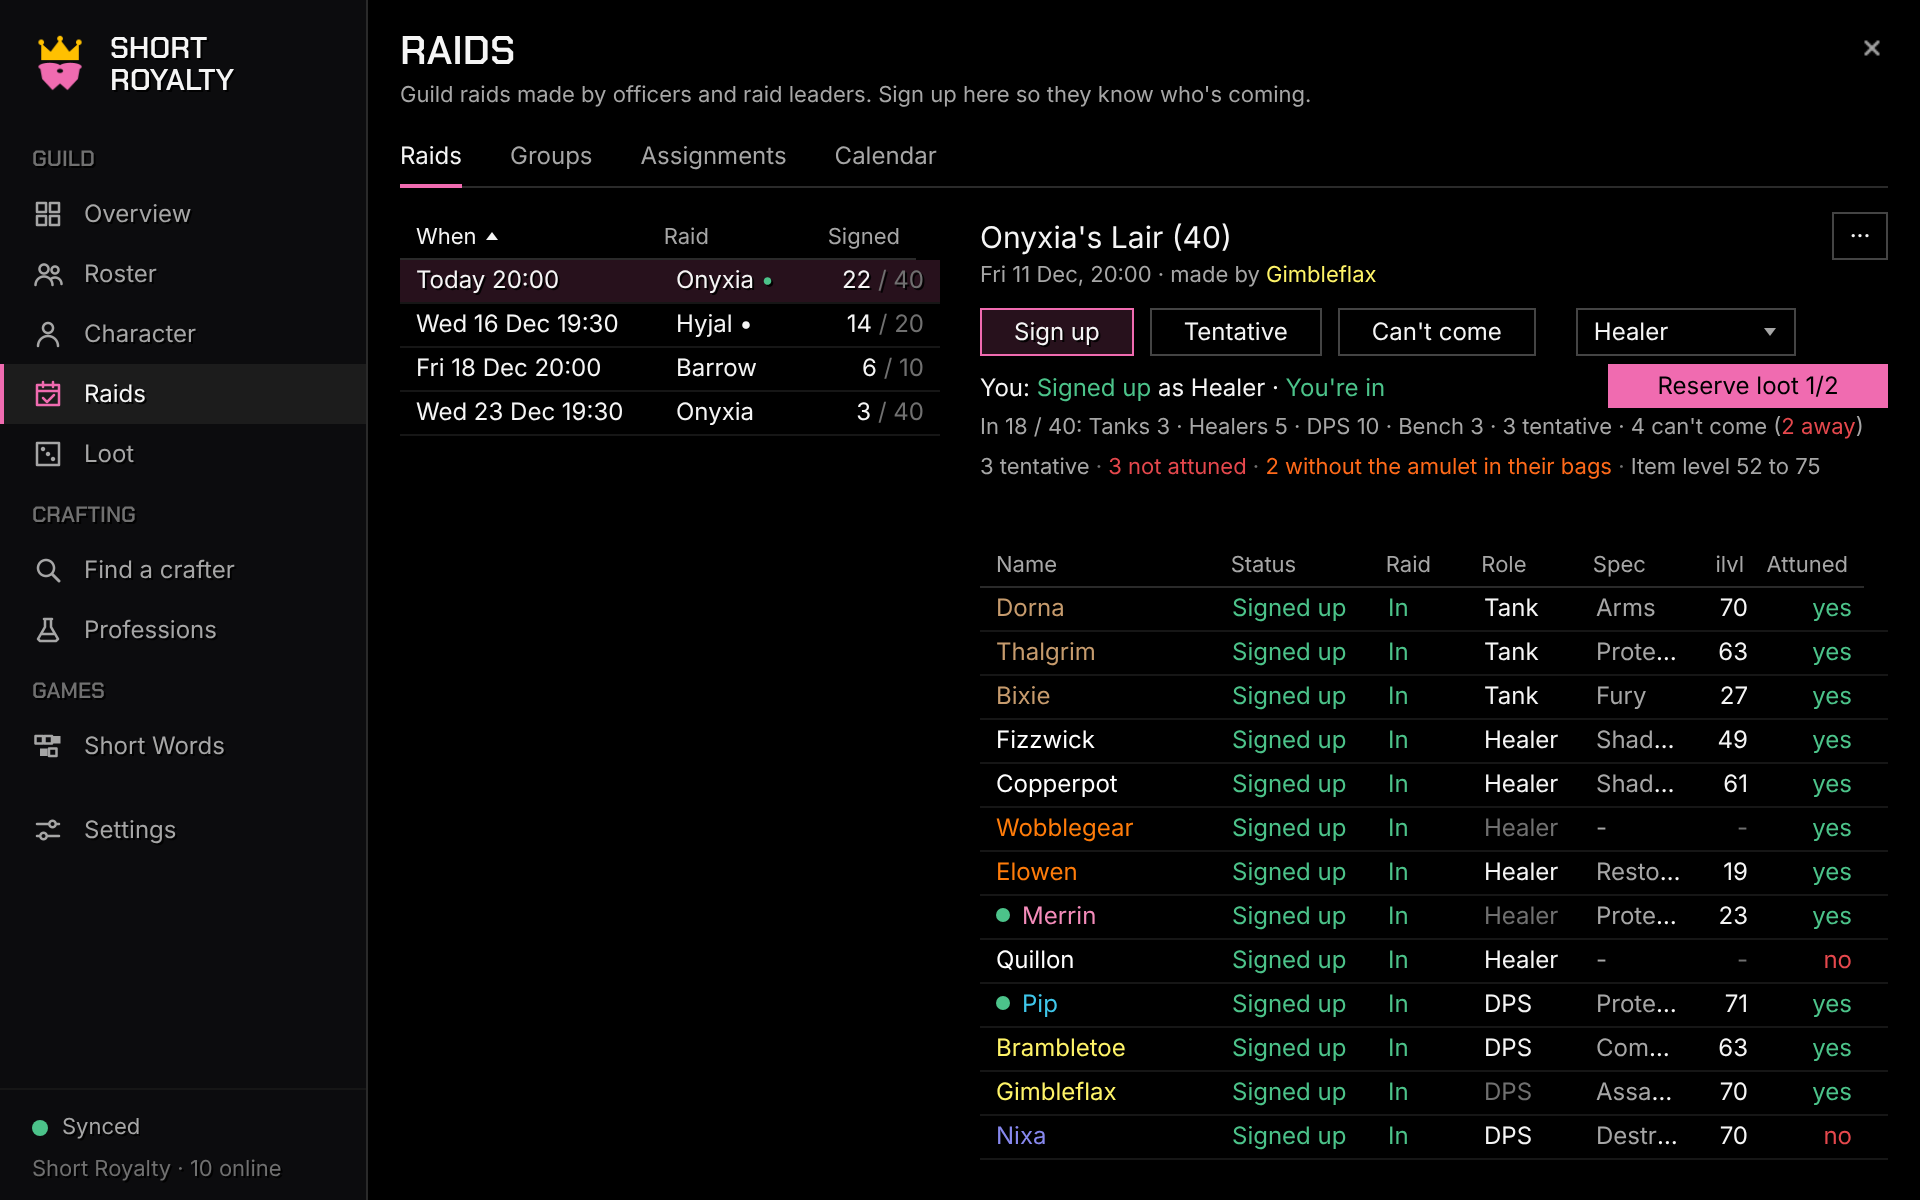
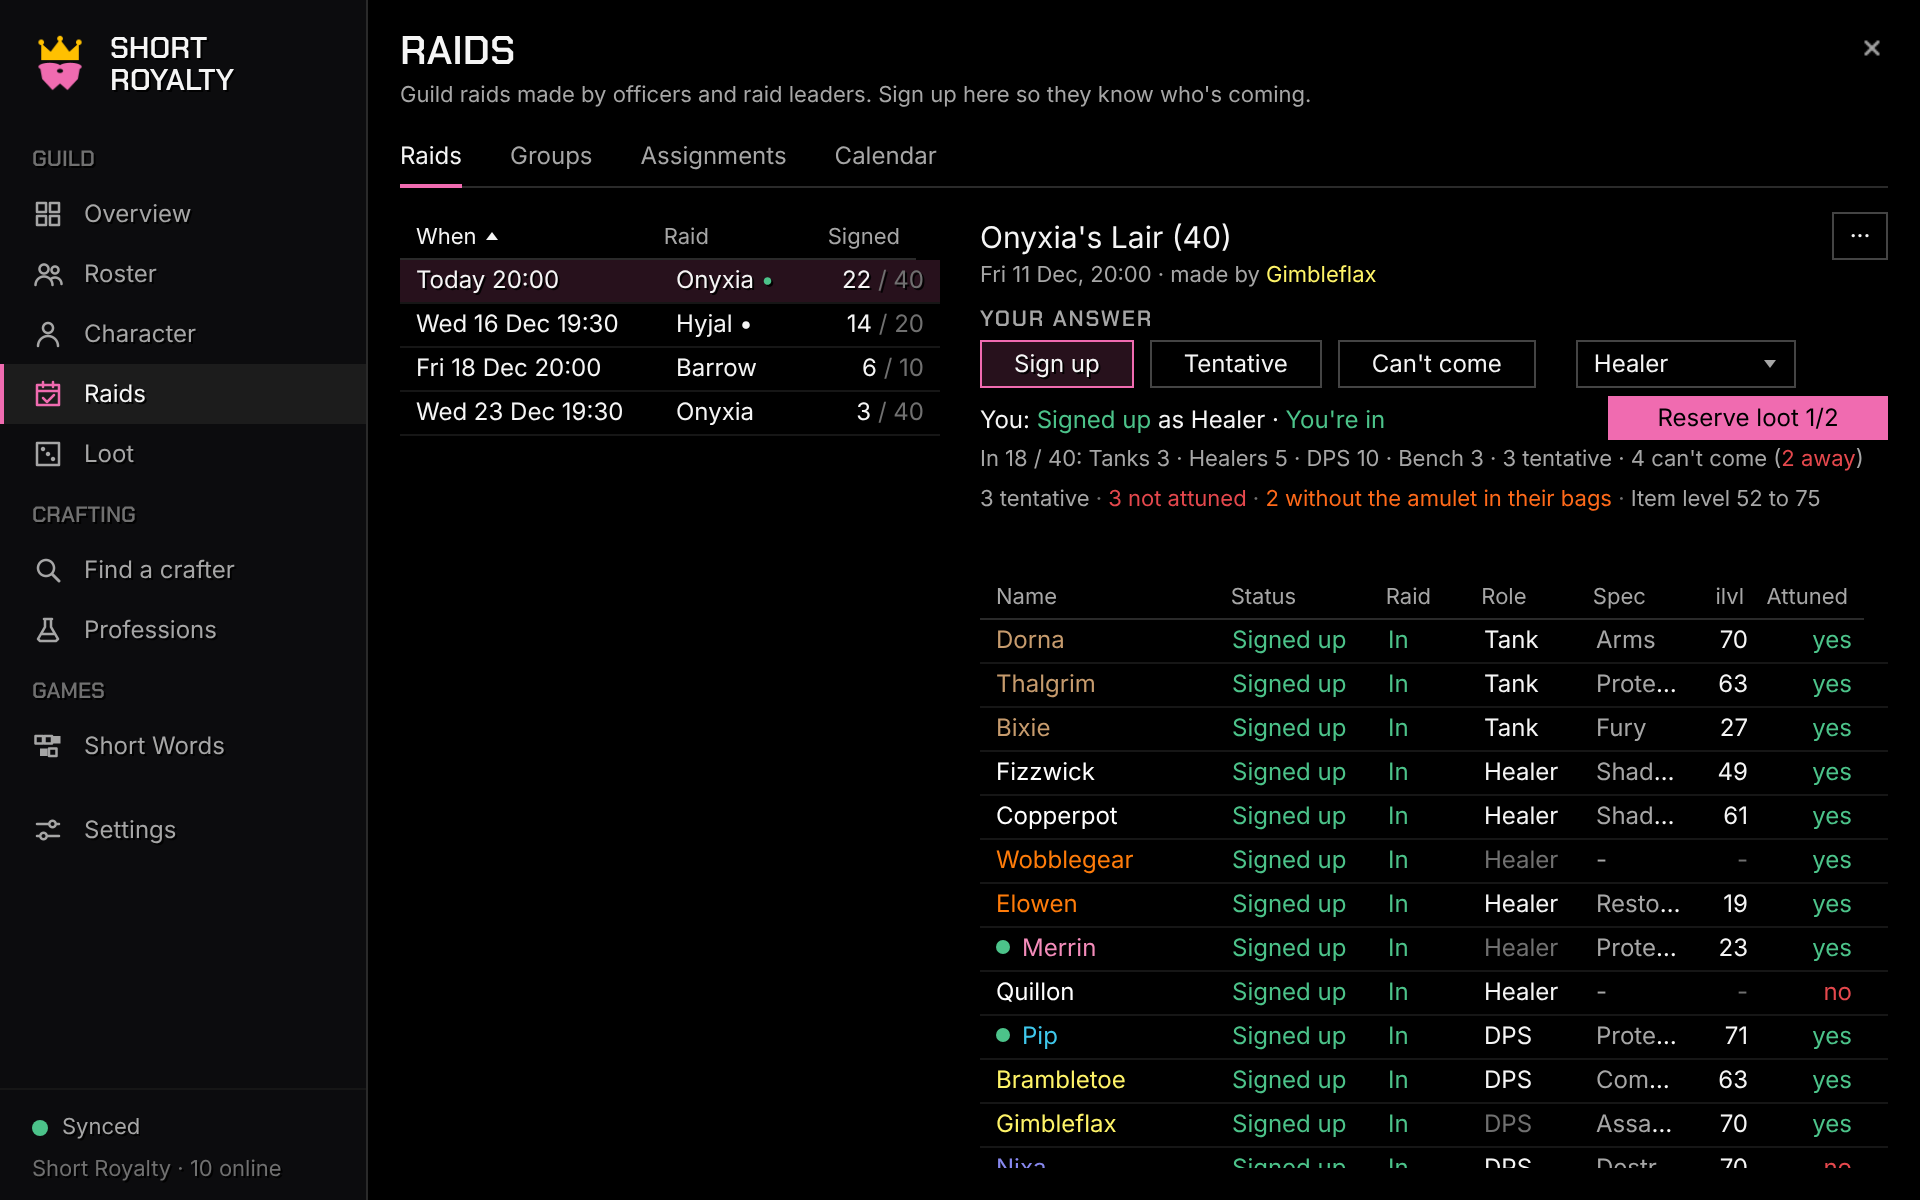
v0.16.5 (not released): label YOUR ANSWER and OFFICERS on the raid page
Claude-Session: https://claude.ai/code/session_01A7mubGdPYGXe41A4ZcDyrF

Changed region(s): [[0.625, 0.4625, 0.9688, 0.9558], [0.5, 0.2467, 1.0, 0.4317], [0.5, 0.4625, 0.5938, 0.9558]]

diff --git a/preview/index.html b/preview/index.html
@@ -1064,20 +1064,21 @@ function raids() {
       (e, c) => c.key === "w" ? e[0] : c.key === "r" ? e[1] + dotFor(e[4]) : `${e[2]}<span class="faint"> / ${e[3]}</span>`,
       { click: true, sel: (e) => e === events[0], sort: { key: "w" }, style: `left:0;top:${t0}px;bottom:0;width:${LW}px` }) +
     `<div class="abs" style="left:${RX}px;top:${t0 + 2}px;font-size:15px">${S.multi ? "Hyjal + Onyxia (40)" : "Onyxia's Lair (40)"}</div>
-    ${officer ? `<div class="abs" style="right:0;top:${t0 + 26}px;display:flex;gap:2px"><span class="chip">Barrow</span><span class="chip ${S.multi ? "on" : ""}">Hyjal</span><span class="chip on">Onyxia</span></div>` : ""}
+    ${officer ? `<div class="abs" style="right:0;top:${t0 + 26}px;display:flex;gap:2px;align-items:center"><span class="display dim" style="font-size:11px;letter-spacing:.08em;margin-right:8px">OFFICERS</span><span class="chip">Barrow</span><span class="chip ${S.multi ? "on" : ""}">Hyjal</span><span class="chip on">Onyxia</span></div>` : ""}
     <div class="abs dim small" style="left:${RX}px;top:${t0 + 24}px">Fri 11 Dec, 20:00  ·  made by ${nm(M[3])}</div>
     ${btn("···", "", `style="position:absolute;right:0;top:${t0}px;width:28px;padding:0;justify-content:center"`)}
-    <div class="abs" style="left:${RX}px;top:${t0 + 48}px;display:flex;gap:8px">${btn("Sign up", "on")}${btn("Tentative")}${btn("Can't come")}<span style="width:4px"></span>
+    <div class="abs display dim" style="left:${RX}px;top:${t0 + 46}px;font-size:11px;letter-spacing:.08em">YOUR ANSWER</div>
+    <div class="abs" style="left:${RX}px;top:${t0 + 64}px;display:flex;gap:8px">${btn("Sign up", "on")}${btn("Tentative")}${btn("Can't come")}<span style="width:4px"></span>
       <span class="menu" style="width:110px">${btn("Healer").replace("</span>", '<i class="arrow"></i></span>')}</span></div>
-    <div class="abs" style="left:${RX}px;top:${t0 + 80}px">You: <span class="good">Signed up</span> as Healer  ·  <span class="good">You're in</span></div>
-    ${btn("Reserve loot  1/2", "primary", `style="position:absolute;right:0;top:${t0 + 76}px;width:140px;justify-content:center;height:22px"`)}
-    <div class="abs dim small" style="left:${RX}px;top:${t0 + 100}px">In 18 / 40: Tanks 3  ·  Healers 5  ·  DPS 10  ·  Bench 3  ·  3 tentative  ·  4 can't come (<span class="bad">2 away</span>)</div>
-    <div class="abs dim small" style="left:${RX}px;right:0;top:${t0 + 120}px;line-height:1.4">3 tentative<span class="faint">  ·  </span><span class="bad">3 not attuned</span><span class="faint">  ·  </span><span class="spark">2 without the amulet in their bags</span><span class="faint">  ·  </span>Item level 52 to 75</div>` +
+    <div class="abs" style="left:${RX}px;top:${t0 + 96}px">You: <span class="good">Signed up</span> as Healer  ·  <span class="good">You're in</span></div>
+    ${btn("Reserve loot  1/2", "primary", `style="position:absolute;right:0;top:${t0 + 92}px;width:140px;justify-content:center;height:22px"`)}
+    <div class="abs dim small" style="left:${RX}px;top:${t0 + 116}px">In 18 / 40: Tanks 3  ·  Healers 5  ·  DPS 10  ·  Bench 3  ·  3 tentative  ·  4 can't come (<span class="bad">2 away</span>)</div>
+    <div class="abs dim small" style="left:${RX}px;right:0;top:${t0 + 136}px;line-height:1.4">3 tentative<span class="faint">  ·  </span><span class="bad">3 not attuned</span><span class="faint">  ·  </span><span class="spark">2 without the amulet in their bags</span><span class="faint">  ·  </span>Item level 52 to 75</div>` +
     list([{ key: "n", t: "Name", w: 118 }, { key: "s", t: "Status", w: 78 }, { key: "p", t: "Raid", w: 48 }, { key: "r", t: "Role", w: 56 }, { key: "sp", t: "Spec", w: 60 }, { key: "i", t: "ilvl", w: 32, r: 1 }, { key: "a", t: "Attuned", w: 52, r: 1 }], lineup,
       (r, c) => c.key === "n" ? (r.m.online ? dot("good") : "") + nm(r.m) : c.key === "s" ? `<span class="${r.st[1]}">${r.st[0]}</span>`
         : c.key === "p" ? (r.place === "i" ? '<span class="good">In</span>' : r.place === "b" ? '<span class="acc">Bench</span>' : DASH) : c.key === "r" ? `<span class="${r.guess ? "faint" : ""}">${r.role}</span>`
         : c.key === "sp" ? `<span class="dim">${r.m.spec || "-"}</span>` : c.key === "i" ? (r.m.ilvl || DASH) : r.att,
-      { click: true, style: `left:${RX}px;right:0;top:${t0 + 164}px;bottom:0` });
+      { click: true, style: `left:${RX}px;right:0;top:${t0 + 180}px;bottom:0` });
 }
 
 // ---------------------------------------------------------------- loot (v0.9.0 Reserve+, mock-up)

diff --git a/CLAUDE.md b/CLAUDE.md
@@ -32,6 +32,11 @@ our own **Discord bot** (v0.12.0, `discord-bot/`, a Cloudflare Worker),
 bridged to the addon only by copy and paste.
 
 ## Start here (handover, 14 Nov 2026)
+- **v0.16.5 (built 23 Nov on the branch, NOT released; an officer read the
+  answer buttons as tabs, owner: "Do it"):** raid detail labels
+  `RT.answerLabel` "YOUR ANSWER" (`RT.SIGN_LABEL_H` 18, everything below
+  moved down via `RT.SIGN_Y`) and `RT.officerLabel` "OFFICERS" left of the
+  key chips (officers only; `sub` now stops at it). TESTING 101.
 - **v0.16.4 (released 23 Nov on `main`, owner: "push to main"; the GM's list, owner
   relayed 23 Nov):** non-officers: sign up per raid (existed), a date range
   of "can't come" that also answers raids made later; officers: a roster

diff --git a/CHANGELOG.md b/CHANGELOG.md
@@ -1,5 +1,12 @@
 # Changelog
 
+## v0.16.5 (not released yet): clearer raid page
+
+- A raid's page labels its two kinds of buttons: **YOUR ANSWER** above
+  Sign up / Tentative / Can't come (they set your own answer, they don't
+  filter the list), and **OFFICERS** beside the Barrow / Hyjal / Onyxia
+  buttons. A guild officer had read the answer buttons as tabs.
+
 ## v0.16.4 (23 Nov 2026): the GM's away requests, remove from a raid
 
 From the GM's list (relayed by the owner):

diff --git a/TESTING.md b/TESTING.md
@@ -391,3 +391,9 @@ addon read.
     raid**: it disappears for everyone on v0.16.4, the counts drop by one.
     As a non-officer, right-clicking someone else only offers "Open their
     character".
+
+## v0.16.5 Clearer raid page
+
+101. [ ] Raids → pick a raid: "YOUR ANSWER" sits above the three answer
+    buttons; with `/sr officer` on, "OFFICERS" sits left of the instance
+    buttons and the "made by" line stops before it.
